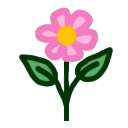
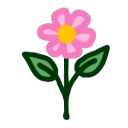
New Bloom badge; event calendars wait for Christmas; Bait the Trap needs 4 votes
- biome-assets/level-bloom.png: the new drawing, centred like the others
- Event calendars only run for events with calendar = true (planned for
  the Christmas event), so Haunted Harvest doesn't get one
- database/2026-11-27-bait-the-trap-4.sql: 4 votes instead of 5, and
  anyone who already has 4 gets it now

Claude-Session: https://claude.ai/code/session_01AKYuNggPa5w9iRuLumobCr

Changed region(s): [[0.125, 0.0625, 0.9062, 0.9688]]

diff --git a/database/README.md b/database/README.md
@@ -78,4 +78,5 @@ byome's database lives in Supabase. These files are a backup and a history of ch
 - `2026-11-23-variation-suggestions.sql`: members can suggest a new shade or scent of a listed product (from its product page, or the Suggest a product page). Moderators approve it (it's added to the product, the member earns the usual variation points) or reject it with a reason. Run **after** `2026-11-22-review-new-products.sql`, and **before publishing** the site update that came with it.
 - `2026-11-24-visitor-feedback.sql`: visitors without an account can send feedback (with an optional email or other contact). It arrives in mod mail marked "From a visitor"; moderators follow up by email if a contact was left. Spam protection: a hidden trap field, 5 a day per visitor (using a scrambled fingerprint of their internet address, never the address), and 30 an hour site-wide. **Run before publishing** the site update that came with it.
 - `2026-11-25-modmail-automod.sql`: automod in mod mail. Nothing is held, but a message (or subject) with automod words is hidden behind "This message may contain strong language" and a **Show message** button. Each automod word now has a category: `strong` (swearing), `explicit` (sexual), `offensive` (slurs and hateful words) or `harmful` (threats, self-harm, abuse). New words are `strong` unless you say otherwise: `insert into moderation_words (word, category) values ('newword', 'explicit');`. Run **after** `2026-11-24-visitor-feedback.sql`.
-- `2026-11-26-daily-surprise.sql`: the **daily surprise** (once a day, Central time: pick a seed packet, shake out Byome points or an item; the odds are listed at the top of the file), **event calendars** (7 stamps per event, days don't need to be in a row; stamps 2, 4 and 6 give 15 Byome points, stamp 7 gives the event's `calendar_item`), and **15 extra Byome points for each member's first review of the day**. Daily-surprise exclusives are items with `daily_exclusive = true` and a rarity of `rare` or `heirloom`; the file shows how to add one. **Run before publishing** the site update that came with it.
+- `2026-11-26-daily-surprise.sql`: the **daily surprise** (once a day, Central time: pick a seed packet, shake out Byome points or an item; the odds are listed at the top of the file), **event calendars** (for events with `calendar = true`, starting with Christmas: 7 stamps per event, days don't need to be in a row; stamps 2, 4 and 6 give 15 Byome points, stamp 7 gives the event's `calendar_item`), and **15 extra Byome points for each member's first review of the day**. Daily-surprise exclusives are items with `daily_exclusive = true` and a rarity of `rare` or `heirloom`; the file shows how to add one. **Run before publishing** the site update that came with it.
+- `2026-11-27-bait-the-trap-4.sql`: "Bait the Trap" (Haunted Harvest) needs votes from 4 members instead of 5, and anyone who already has 4 gets it now, with its reward. Shows who has it at the end.
